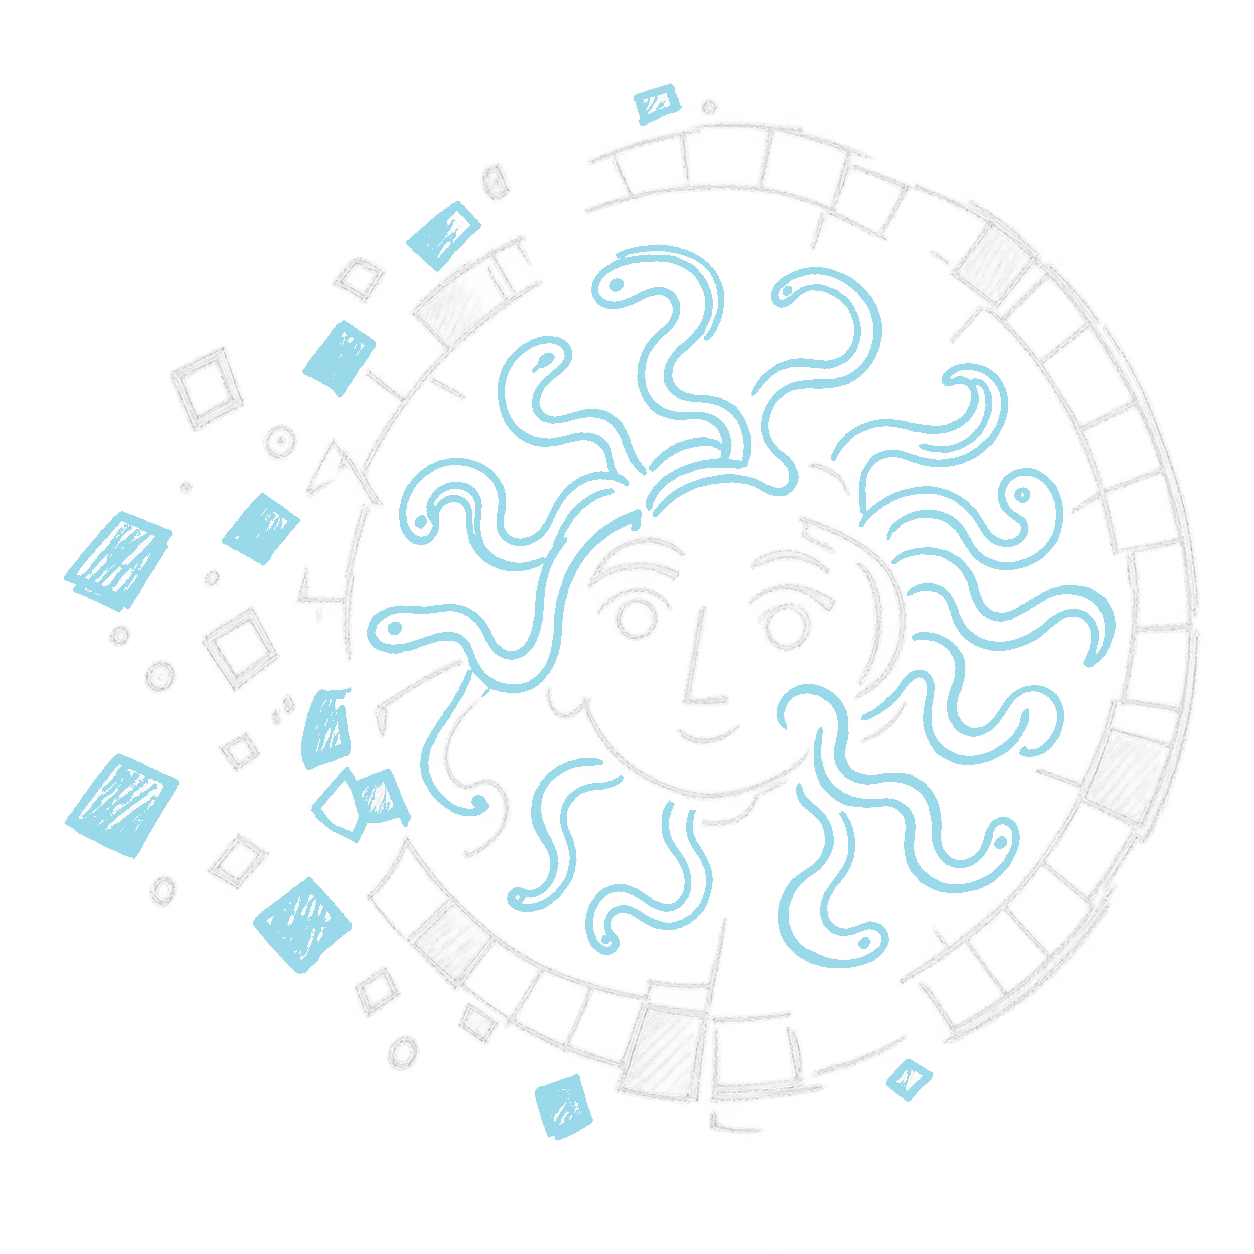
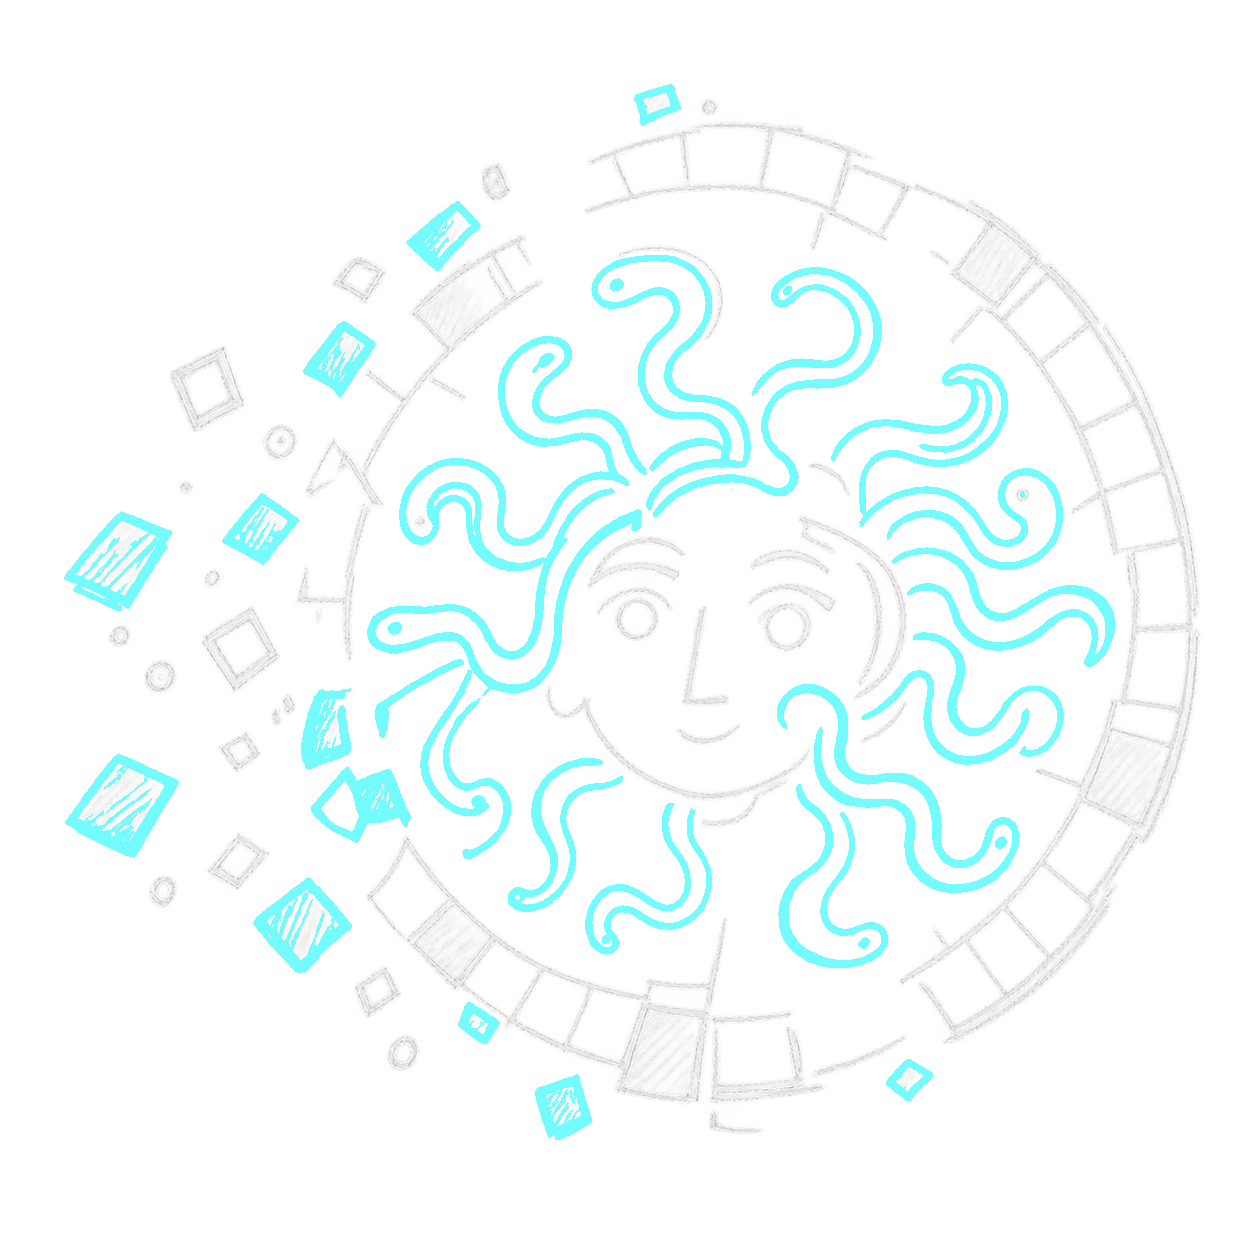
snakes

diff --git a/front/src/assets/modal.css b/front/src/assets/modal.css
@@ -34,8 +34,14 @@
 
 @media (min-width: 768px){
 
-.modal-body{
+.modal-title{
+        font-size: 1.75rem;
+    }
+    .modal-body{
     font-size: 1.25rem;
+    }
+    .modal-header{
+        font-size: 1.5rem;
     }
 }
 
